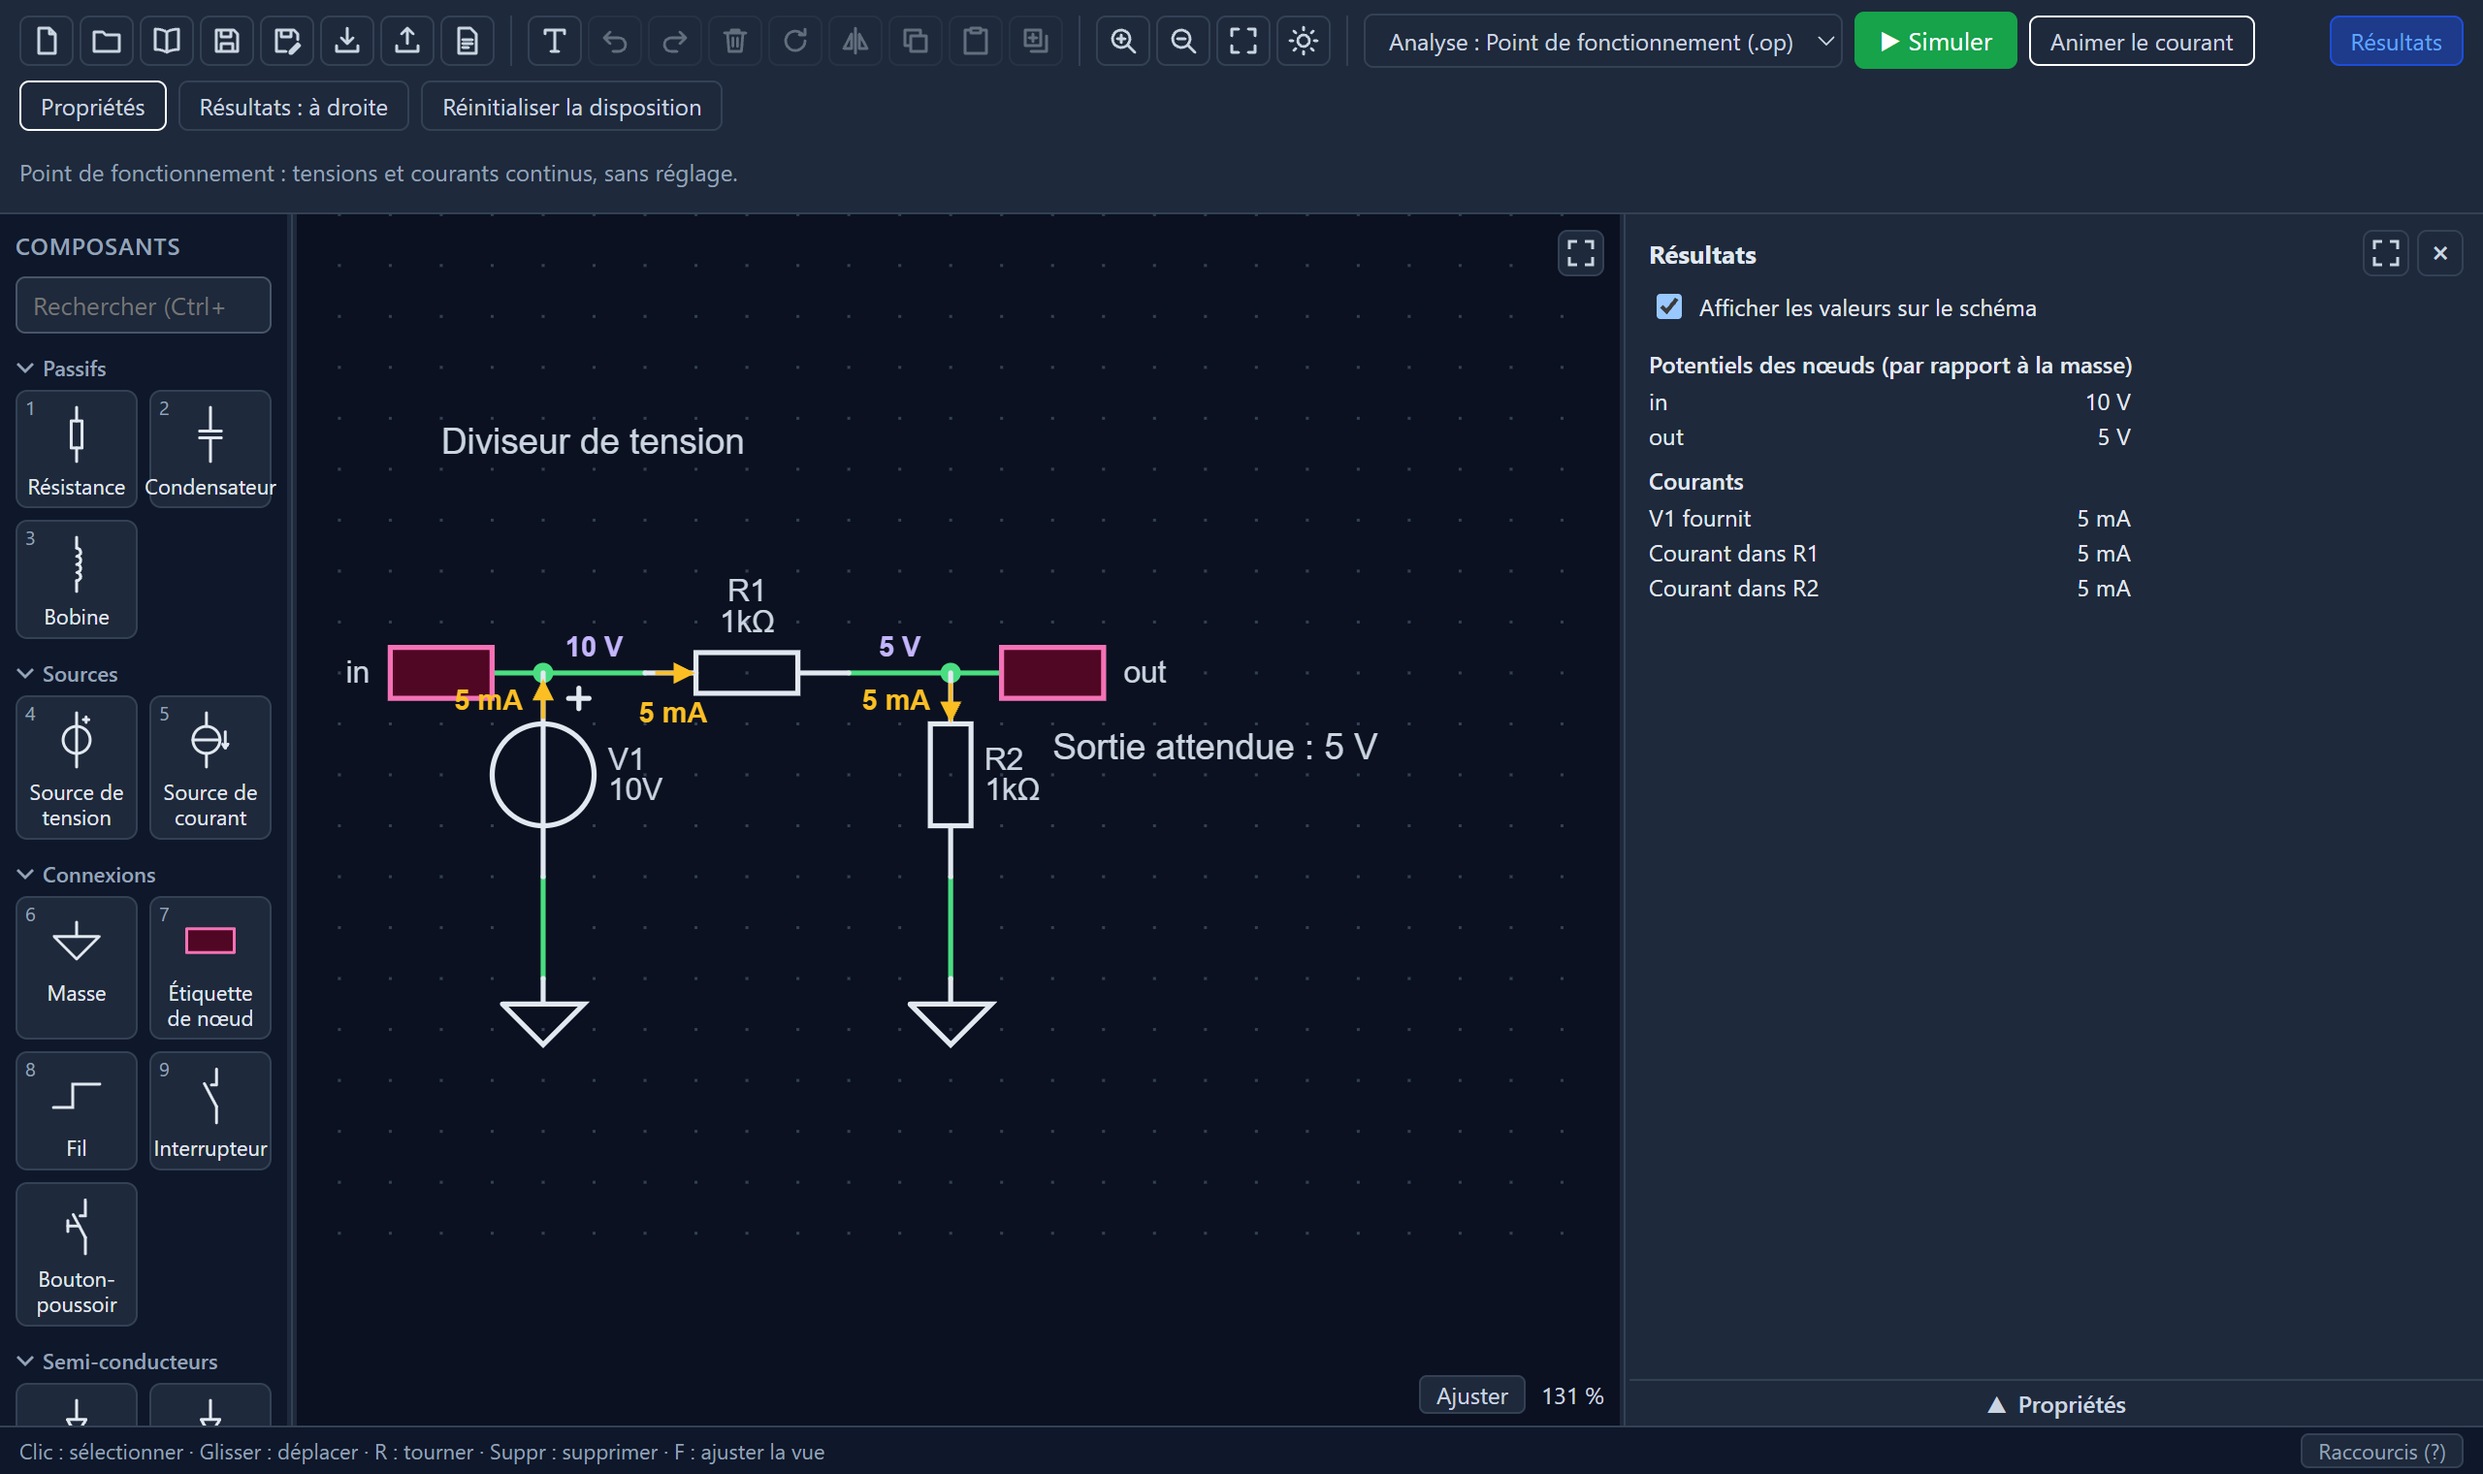
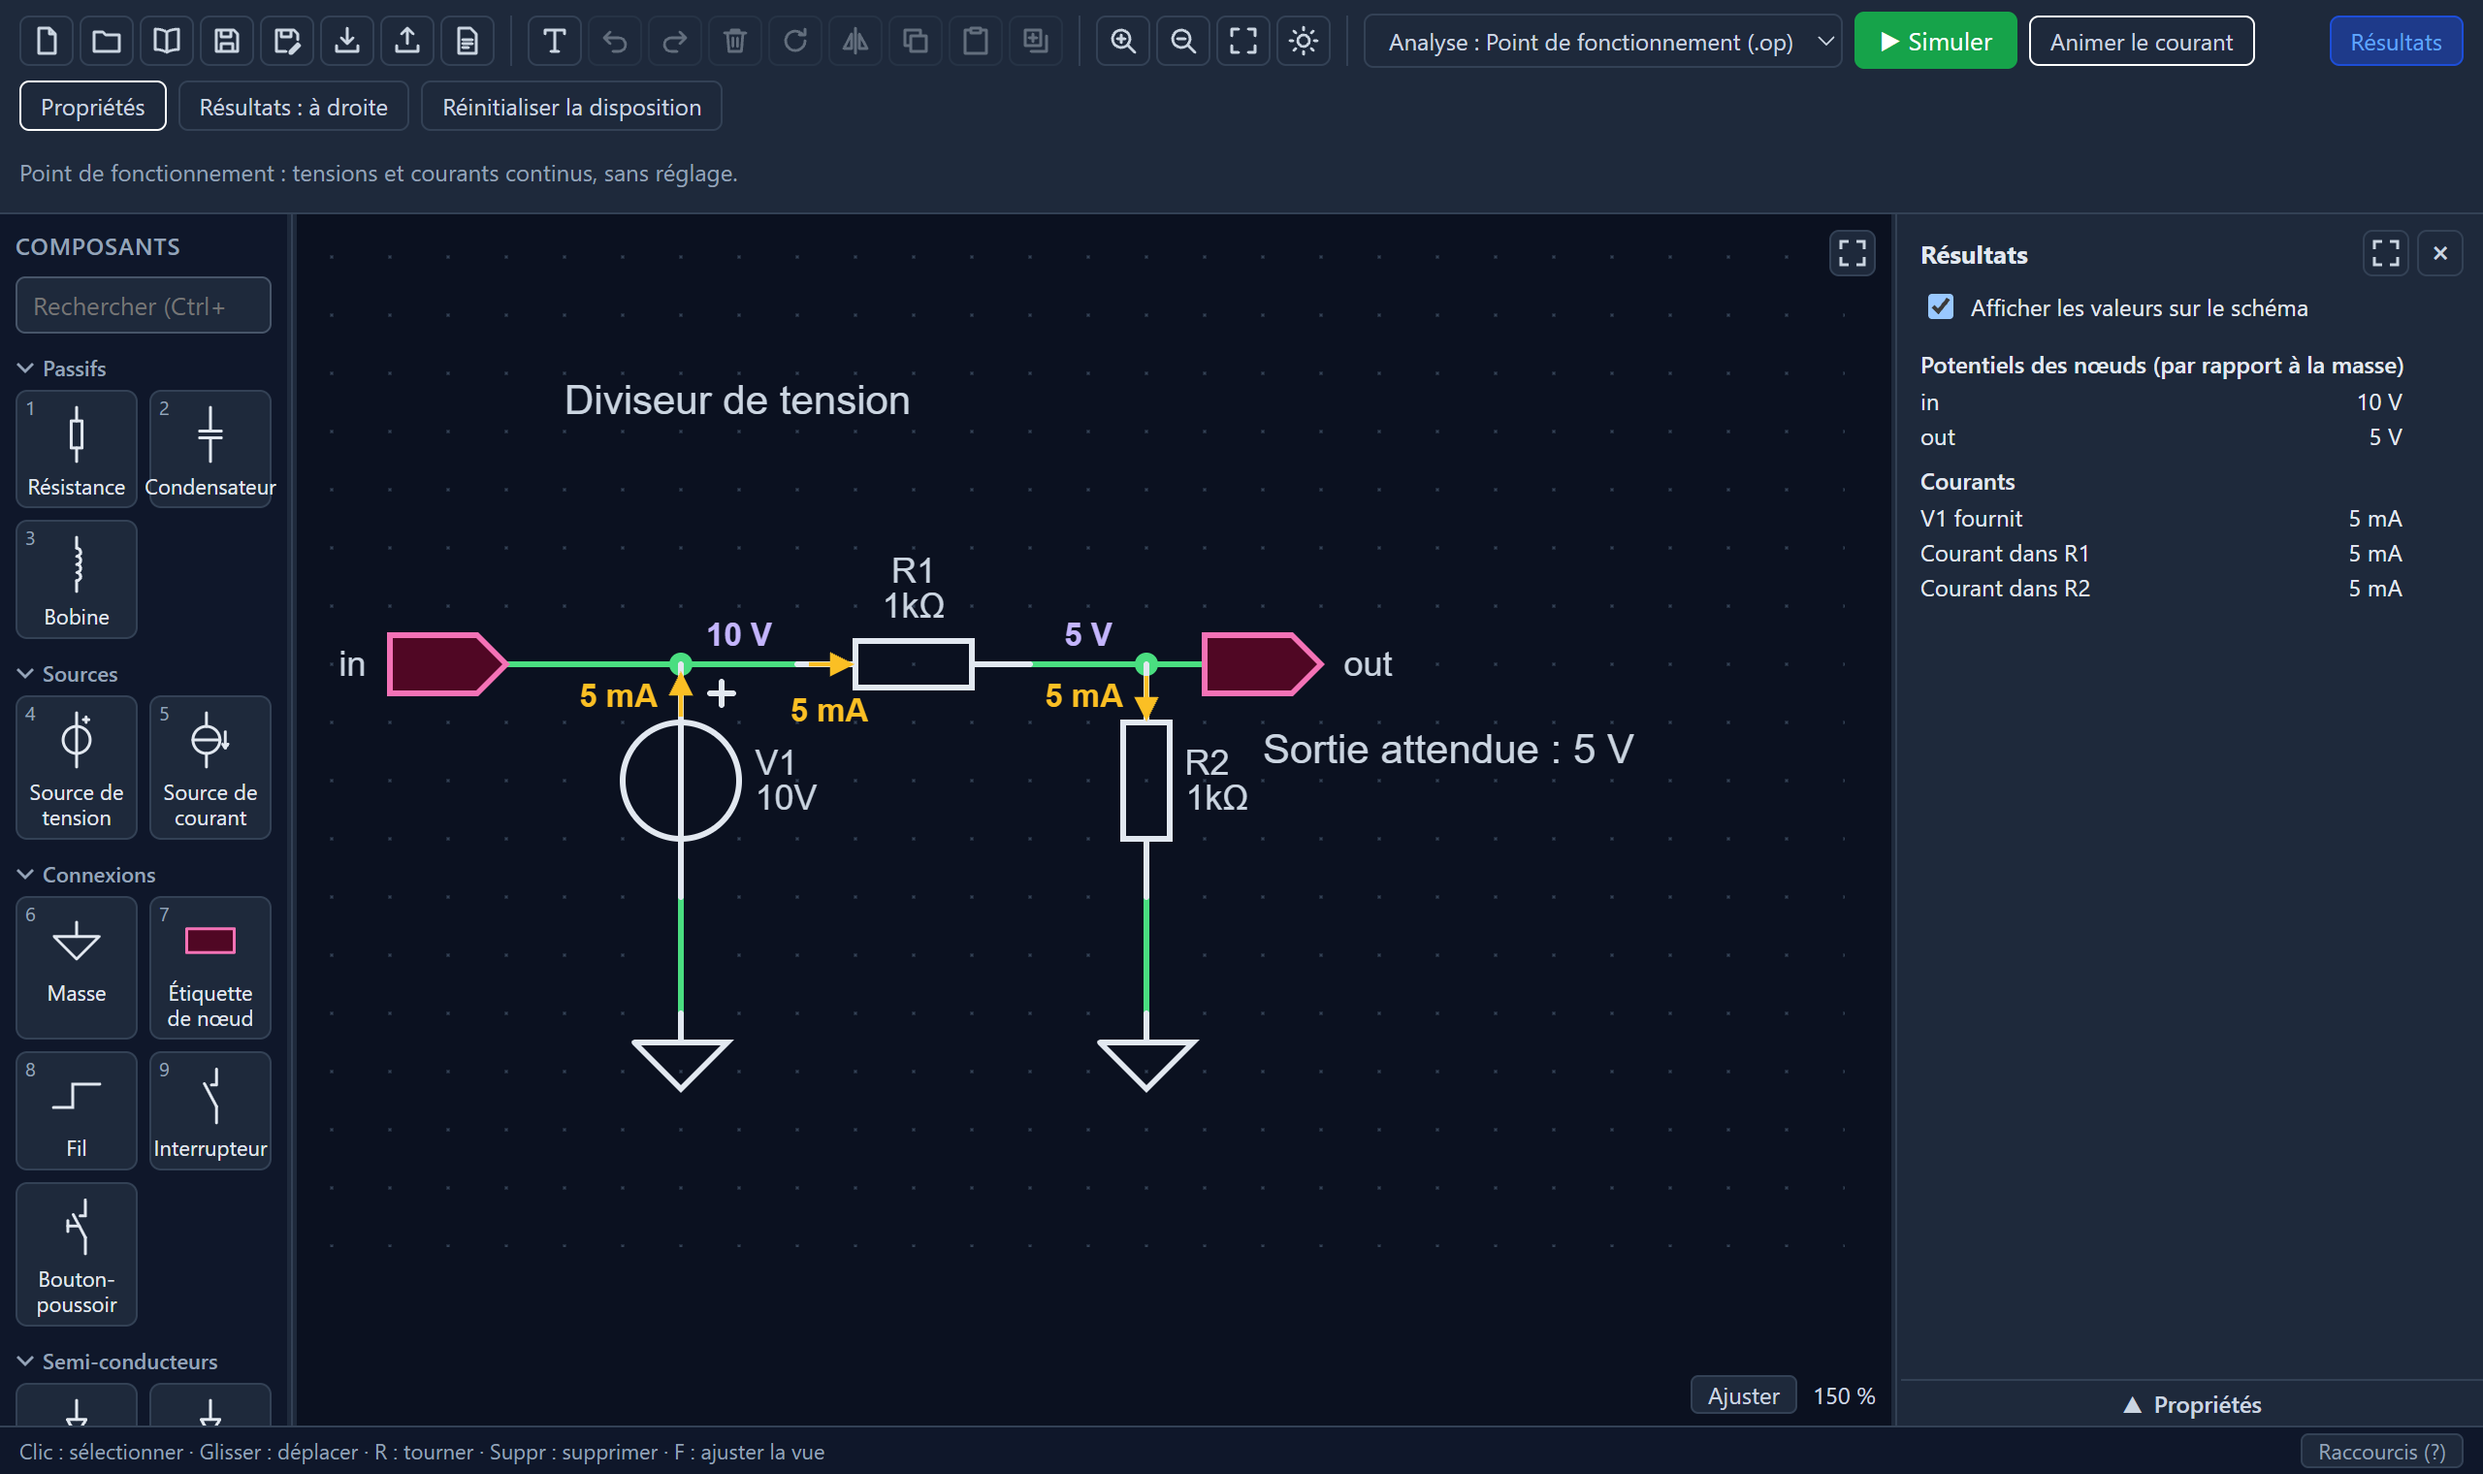
fix(fixtures): give the divider labels their direction and room for the current
The in label moves two steps left, so the current of V1 no longer runs into
it, and both labels show their input/output shape. The screenshot is taken
with the results panel at its smallest width, leaving more room to the
schematic.

diff --git a/docs/exemples-netlist.md b/docs/exemples-netlist.md
@@ -68,10 +68,10 @@ V1 = 10 V, R1 = R2 = 1 kΩ, point de fonctionnement `.op`.
         "rotation": 0, "mirror": false, "params": {} },
       { "id": "c5", "type": "ground", "position": { "x": 8, "y": 4 },
         "rotation": 0, "mirror": false, "params": {} },
-      { "id": "c6", "type": "label", "position": { "x": -1, "y": -2 },
-        "rotation": 180, "mirror": false, "params": { "net": "in" } },
+      { "id": "c6", "type": "label", "position": { "x": -3, "y": -2 },
+        "rotation": 180, "mirror": false, "params": { "net": "in", "direction": "input" } },
       { "id": "c7", "type": "label", "position": { "x": 9, "y": -2 },
-        "rotation": 0, "mirror": false, "params": { "net": "out" } }
+        "rotation": 0, "mirror": false, "params": { "net": "out", "direction": "output" } }
     ],
     "junctions": [],
     "wires": [
